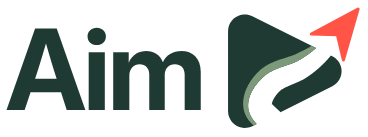
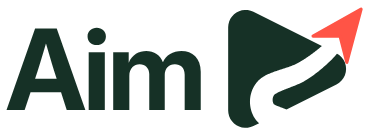
Mark: deep forest green, one road, bolder S, tighter arrow
Drops the sage verge, moves the road so the triangle keeps its corners,
and brings the arrowhead in close. Green is now #163126.

Claude-Session: https://claude.ai/code/session_01SjDZZ75Dr81gmM2iqGfBXN

diff --git a/content/core.js b/content/core.js
@@ -73,7 +73,7 @@ chrome.runtime.onMessage.addListener((msg, sender, reply) => {
 const ICON = {
   // The mark (icons/mark-small.svg, written by tools/build-mark.mjs): forest green, light in
   // YouTube's dark theme (--wp-mark); the arrowhead stays coral.
-  logo: [20,["path",{"d":"M4.86 22.24L4.85 22.22L4.74 22.09L4.63 21.95L4.51 21.81L4.4 21.66L4.29 21.51L4.17 21.34L4.06 21.16L3.95 20.97L3.84 20.77L3.74 20.55L3.64 20.32L3.56 20.06L3.49 19.79L3.43 19.51L3.4 19.23L3.38 18.99L3.38 18.78L3.39 18.58L3.41 18.37L3.43 18.17L3.46 17.98L3.5 17.79L3.55 17.6L3.59 17.42L3.65 17.25L3.71 17.07L3.77 16.91L3.83 16.74L3.9 16.58L3.98 16.42L4.06 16.26L4.14 16.11L4.22 15.96L4.3 15.82L4.39 15.67L4.48 15.53L4.57 15.39L4.67 15.26L4.76 15.13L4.86 14.99L4.96 14.87L5.06 14.74L5.17 14.61L5.27 14.49L5.38 14.37L5.48 14.25L5.59 14.14L5.7 14.03L5.81 13.92L5.93 13.81L6.04 13.7L6.16 13.6L6.27 13.49L6.39 13.39L6.52 13.29L6.67 13.17L6.83 13.04L6.99 12.93L7.16 12.83L7.32 12.73L7.48 12.64L7.64 12.55L7.8 12.47L7.96 12.39L8.12 12.32L8.28 12.25L8.44 12.18L8.59 12.12L8.75 12.06L8.9 12L9.06 11.94L9.21 11.88L9.36 11.83L9.51 11.78L9.66 11.73L9.81 11.68L9.95 11.63L10.09 11.59L10.23 11.54L10.37 11.49L10.5 11.45L10.63 11.41L10.76 11.36L10.89 11.32L11.01 11.28L11.13 11.24L11.24 11.2L11.34 11.16L11.45 11.12L11.55 11.09L11.64 11.05L11.72 11.01L11.8 10.98L11.88 10.95L11.95 10.91L12.04 10.86L12.13 10.82L12.23 10.77L12.32 10.72L12.41 10.67L12.5 10.62L12.59 10.57L12.67 10.52L12.76 10.47L12.84 10.42L12.92 10.38L13 10.33L13.08 10.28L13.17 10.23L13.24 10.18L13.32 10.13L13.4 10.08L13.47 10.03L13.55 9.98L13.63 9.93L13.7 9.88L13.78 9.83L13.85 9.77L13.93 9.72L14 9.67L14.08 9.62L14.15 9.56L14.22 9.51L14.3 9.45L14.37 9.4L14.44 9.34L14.52 9.28L14.59 9.22L14.67 9.16L14.74 9.1L14.82 9.04L14.9 8.98L14.97 8.92L15.05 8.85L15.1 8.81L4.66 3.59L4.21 3.41L3.74 3.31L3.25 3.29L2.77 3.35L2.31 3.5L1.88 3.71L1.49 4L1.15 4.35L0.88 4.75L0.68 5.2L0.56 5.66L0.52 6.15L0.52 19.78L0.56 20.26L0.68 20.73L0.88 21.17L1.15 21.57L1.49 21.93L1.88 22.21L2.31 22.43L2.77 22.58L3.25 22.64L3.74 22.62L4.21 22.52L4.66 22.34Z","style":"fill: var(--wp-mark, #1e3a32)"}],["path",{"d":"M10.01 19.66L9.98 19.63L9.86 19.51L9.74 19.4L9.63 19.29L9.52 19.19L9.41 19.09L9.31 19L9.21 18.91L9.11 18.82L9.02 18.75L8.94 18.67L8.87 18.6L8.79 18.54L8.73 18.47L8.67 18.42L8.62 18.37L8.58 18.33L8.55 18.3L8.52 18.28L8.51 18.27L8.5 18.27L8.5 18.28L8.51 18.31L8.52 18.35L8.53 18.41L8.55 18.49L8.56 18.58L8.57 18.67L8.57 18.71L8.56 18.72L8.55 18.73L8.55 18.73L8.54 18.72L8.53 18.72L8.53 18.7L8.53 18.68L8.53 18.65L8.53 18.62L8.53 18.59L8.54 18.55L8.55 18.51L8.56 18.46L8.57 18.41L8.59 18.36L8.61 18.3L8.63 18.25L8.65 18.19L8.68 18.13L8.71 18.06L8.74 18L8.78 17.93L8.81 17.86L8.85 17.79L8.89 17.73L8.94 17.66L8.98 17.59L9.03 17.52L9.08 17.45L9.13 17.38L9.18 17.31L9.23 17.24L9.28 17.18L9.34 17.11L9.39 17.04L9.45 16.98L9.51 16.92L9.56 16.86L9.61 16.8L9.64 16.77L9.67 16.74L9.7 16.71L9.74 16.67L9.79 16.63L9.85 16.59L9.92 16.54L9.99 16.49L10.06 16.44L10.15 16.39L10.24 16.34L10.33 16.29L10.43 16.24L10.54 16.18L10.65 16.13L10.76 16.08L10.88 16.02L11 15.97L11.12 15.91L11.25 15.86L11.38 15.8L11.51 15.74L11.64 15.69L11.78 15.63L11.91 15.57L12.05 15.51L12.19 15.45L12.33 15.39L12.48 15.32L12.62 15.26L12.76 15.19L12.91 15.13L13.05 15.06L13.2 14.99L13.34 14.91L13.49 14.83L13.63 14.76L13.78 14.67L13.92 14.58L14.06 14.5L14.18 14.42L14.29 14.35L14.4 14.27L14.5 14.2L14.61 14.13L14.71 14.05L14.81 13.98L14.91 13.91L15.01 13.83L15.11 13.76L15.2 13.68L15.3 13.61L15.39 13.53L15.49 13.46L15.58 13.39L15.67 13.31L15.76 13.23L15.85 13.16L15.94 13.08L16.03 13.01L16.11 12.93L16.2 12.85L16.28 12.78L16.37 12.7L16.45 12.62L16.54 12.55L16.62 12.47L16.7 12.39L16.78 12.31L16.86 12.23L16.94 12.15L17.02 12.07L17.1 11.99L17.18 11.91L17.26 11.83L17.33 11.75L17.41 11.67L17.49 11.58L17.57 11.5L17.65 11.41L17.74 11.32L17.83 11.22L17.92 11.12L18.01 11.02L18.09 10.92L18.18 10.81L18.27 10.71L18.36 10.6L18.44 10.5L18.74 10.68L19.13 11.04L19.45 11.46L19.68 11.93L19.83 12.44L19.87 12.96L19.83 13.49L19.68 14L19.45 14.47L19.13 14.89L18.74 15.25L18.29 15.52Z","style":"fill: var(--wp-mark, #1e3a32)"}],["path",{"d":"M23.48 1.36L20.62 11.1L19.48 6.31L14.56 6.19Z","fill":"#ff5446","stroke":"#ff5446","stroke-width":0.52,"stroke-linejoin":"round"}]],
+  logo: [20,["path",{"d":"M5.15 21.88L5.1 21.83L4.9 21.63L4.71 21.4L4.54 21.17L4.42 20.98L4.32 20.81L4.23 20.64L4.14 20.46L4.07 20.29L4 20.11L3.93 19.93L3.87 19.75L3.82 19.57L3.78 19.39L3.74 19.21L3.7 19.02L3.67 18.84L3.65 18.66L3.63 18.47L3.63 18.29L3.62 18.1L3.62 17.92L3.63 17.73L3.64 17.55L3.66 17.37L3.69 17.18L3.72 17L3.75 16.82L3.8 16.64L3.85 16.46L3.9 16.28L3.96 16.1L4.03 15.92L4.1 15.75L4.18 15.58L4.27 15.4L4.36 15.24L4.46 15.07L4.57 14.91L4.68 14.75L4.79 14.59L4.92 14.44L5.05 14.28L5.2 14.13L5.37 13.96L5.55 13.8L5.73 13.66L5.92 13.53L6.1 13.41L6.29 13.3L6.47 13.2L6.65 13.11L6.83 13.02L7.01 12.94L7.19 12.86L7.38 12.78L7.56 12.71L7.74 12.64L7.92 12.57L8.1 12.51L8.28 12.44L8.46 12.38L8.64 12.33L8.82 12.27L8.99 12.21L9.17 12.15L9.34 12.1L9.52 12.04L9.68 11.99L9.85 11.94L10.02 11.89L10.18 11.84L10.33 11.78L10.49 11.73L10.64 11.68L10.78 11.63L10.92 11.58L11.05 11.53L11.17 11.48L11.29 11.44L11.41 11.39L11.51 11.34L11.6 11.3L11.69 11.26L11.8 11.2L11.91 11.14L12.03 11.08L12.14 11.02L12.26 10.95L12.37 10.89L12.48 10.83L12.59 10.76L12.7 10.7L12.81 10.63L12.92 10.57L13.02 10.5L13.13 10.43L13.24 10.36L13.34 10.29L13.45 10.23L13.55 10.16L13.65 10.09L13.75 10.02L13.86 9.95L13.96 9.88L14.06 9.81L14.16 9.74L14.26 9.67L14.35 9.6L14.45 9.53L14.55 9.46L14.64 9.39L14.74 9.31L14.83 9.24L14.92 9.17L15.02 9.1L15.11 9.03L15.2 8.96L15.29 8.88L15.38 8.82L15.46 8.74L15.55 8.67L15.64 8.6L15.72 8.53L15.78 8.49L4.75 2.97L4.29 2.79L3.81 2.69L3.32 2.67L2.83 2.73L2.35 2.88L1.91 3.1L1.52 3.4L1.17 3.75L0.9 4.16L0.7 4.61L0.57 5.09L0.53 5.58L0.53 19.48L0.57 19.97L0.7 20.45L0.9 20.9L1.17 21.31L1.52 21.66L1.91 21.96L2.35 22.18L2.83 22.33L3.32 22.39L3.81 22.37L4.29 22.27L4.75 22.08Z","style":"fill: var(--wp-mark, #163126)"}],["path",{"d":"M11.01 18.95L10.97 18.94L10.79 18.87L10.61 18.8L10.44 18.73L10.27 18.67L10.11 18.61L9.95 18.55L9.8 18.5L9.65 18.44L9.51 18.39L9.37 18.34L9.25 18.29L9.13 18.24L9.02 18.2L8.92 18.16L8.83 18.12L8.75 18.09L8.69 18.06L8.64 18.03L8.61 18.02L8.59 18.01L8.58 18.02L8.6 18.04L8.63 18.08L8.68 18.14L8.72 18.2L8.72 18.22L8.71 18.21L8.7 18.2L8.69 18.19L8.67 18.18L8.66 18.16L8.65 18.15L8.63 18.13L8.62 18.11L8.61 18.09L8.6 18.06L8.58 18.04L8.57 18.01L8.56 17.99L8.55 17.96L8.54 17.93L8.54 17.9L8.53 17.87L8.52 17.85L8.52 17.82L8.52 17.78L8.51 17.76L8.51 17.73L8.51 17.7L8.51 17.67L8.51 17.64L8.51 17.61L8.51 17.58L8.52 17.55L8.52 17.52L8.52 17.5L8.53 17.47L8.54 17.45L8.54 17.42L8.55 17.4L8.56 17.37L8.57 17.35L8.58 17.33L8.59 17.3L8.59 17.29L8.58 17.29L8.57 17.29L8.58 17.28L8.6 17.26L8.63 17.23L8.68 17.19L8.74 17.15L8.81 17.1L8.89 17.05L8.98 17L9.08 16.95L9.19 16.89L9.31 16.83L9.44 16.77L9.57 16.71L9.71 16.65L9.85 16.59L10 16.53L10.15 16.47L10.31 16.4L10.46 16.34L10.63 16.28L10.8 16.21L10.97 16.15L11.14 16.08L11.31 16.01L11.48 15.94L11.66 15.87L11.83 15.8L12.01 15.73L12.19 15.65L12.36 15.58L12.54 15.5L12.72 15.41L12.89 15.33L13.07 15.24L13.25 15.15L13.42 15.06L13.59 14.96L13.76 14.86L13.9 14.77L14.04 14.69L14.17 14.6L14.3 14.51L14.43 14.42L14.56 14.33L14.69 14.24L14.82 14.15L14.94 14.06L15.06 13.97L15.19 13.88L15.31 13.79L15.43 13.7L15.55 13.61L15.66 13.52L15.78 13.42L15.9 13.33L16.01 13.24L16.12 13.15L16.23 13.05L16.34 12.96L16.45 12.87L16.56 12.78L16.67 12.68L16.77 12.59L16.88 12.5L16.98 12.41L17.08 12.31L17.18 12.22L17.28 12.13L17.38 12.04L17.48 11.95L17.57 11.86L17.67 11.76L17.76 11.67L17.85 11.58L17.95 11.49L18.04 11.4L18.12 11.32L18.21 11.22L18.31 11.12L18.41 11.02L18.51 10.92L18.6 10.81L18.7 10.71L18.79 10.6L18.88 10.49L18.97 10.39L19.05 10.28L19.11 10.21L19.5 10.57L19.82 11L20.06 11.48L20.21 11.99L20.26 12.53L20.21 13.07L20.06 13.58L19.82 14.06L19.5 14.49L19.1 14.85L18.64 15.14Z","style":"fill: var(--wp-mark, #163126)"}],["path",{"d":"M23.47 1.61L20.74 11.58L19.48 6.73L14.47 6.7Z","fill":"#ff5446","stroke":"#ff5446","stroke-width":0.53,"stroke-linejoin":"round"}]],
   chevron: [18, ["path", {"d": "M7 10l5 5 5-5", "fill": "none", "stroke": "currentColor", "stroke-width": "2", "stroke-linecap": "round", "stroke-linejoin": "round"}]],
   right: [18, ["path", {"d": "M10 7l5 5-5 5", "fill": "none", "stroke": "currentColor", "stroke-width": "2", "stroke-linecap": "round", "stroke-linejoin": "round"}]],
   pivot: [20, ["path", {"d": "M4 12a8 8 0 0 1 13.7-5.6M20 12a8 8 0 0 1-13.7 5.6M18 3v4h-4M6 21v-4h4", "fill": "none", "stroke": "currentColor", "stroke-width": "1.8", "stroke-linecap": "round", "stroke-linejoin": "round"}]],

diff --git a/content/content.css b/content/content.css
@@ -27,7 +27,7 @@
   --wp-accent-hover: #c03222;
   --wp-accent-soft: rgba(217, 59, 43, 0.08);
   --wp-on-accent: #ffffff;
-  --wp-mark: #1e3a32; /* the Aim mark: forest green, light in the dark theme */
+  --wp-mark: #163126; /* the Aim mark: forest green, light in the dark theme */
   --wp-success: #2ba640;
   --wp-card-border: rgba(0, 0, 0, 0.08);
   font-family: "Roboto", "Arial", sans-serif;

diff --git a/README.md b/README.md
@@ -92,7 +92,7 @@ YouTube helps you find something to watch. Aim helps you find what you need. Aim
 The name is Aim. It lives in one place, so it's easy to change if it ever has to:
 
 - **Name and descriptions:** `name`, `description` and `action.default_title` in `manifest.json`. The YouTube pages, popup and settings page all read the name from there.
-- **The mark:** a rounded triangle pointing forward, a road winding through it with a sage verge, and a coral arrowhead where the road leads out ("Learn forward"). Forest green (#1e3a32, or light on dark backgrounds), sage (#7c9a7a), coral (#ff5446). It's never red and never on a red tile, and the arrow points up and out, so it isn't mistaken for YouTube's play button. `tools/build-mark.mjs` draws it and writes everything made from it: `icons/mark.svg` (large), `icons/mark-small.svg` (16–32 px: a wider road, no verge), `icons/16|32|48|128.png` (dark mark, for light toolbars), `icons/light/` (light mark, for dark toolbars), `icons/wordmark.png` and `wordmark-light.png` ("Aim" then the mark, for the store and website), and `ICON.logo` in `content/core.js`, the mark on YouTube. Change the drawing there and run it (see the comment at its top), rather than editing the outputs.
+- **The mark:** a rounded triangle pointing forward, a road winding through it, and a coral arrowhead where the road leads out ("Learn forward"). Deep forest green (#163126, or light on dark backgrounds) and coral (#ff5446). It's never red and never on a red tile, and the arrow points up and out, so it isn't mistaken for YouTube's play button. `tools/build-mark.mjs` draws it and writes everything made from it: `icons/mark.svg` (large), `icons/mark-small.svg` (16–32 px: a wider road), `icons/16|32|48|128.png` (dark mark, for light toolbars), `icons/light/` (light mark, for dark toolbars), `icons/wordmark.png` and `wordmark-light.png` ("Aim" then the mark, for the store and website), and `ICON.logo` in `content/core.js`, the mark on YouTube. Change the drawing there and run it (see the comment at its top), rather than editing the outputs.
 - `PRIVACY.md` and `STORE_LISTING.md` mention the name in text.
 
 ## Stored data

diff --git a/STORE_LISTING.md b/STORE_LISTING.md
@@ -71,7 +71,7 @@ Don't show YouTube's logo prominently in screenshots or promos, and don't make t
 - [ ] **Decide Free-only or with Plus.** `config.js` now points at the Aim Plus project. For a Free-only release, empty both values first. For a release with Plus, update PRIVACY.md and the privacy answers above.
 - [ ] **Remove the `"key"` line from `manifest.json` in the uploaded copy.** It pins Aim's ID for development; the Chrome Web Store assigns its own ID. Then add `chrome-extension://<store ID>/**` to Supabase's Redirect URLs, and set `AIM_EXTENSION_ORIGINS` to the store ID.
 - [ ] Run `TESTING.md` on real YouTube (light and dark, wide and narrow windows).
-- [x] Logo chosen (October 2026): the forward triangle with a road and a coral arrowhead; forest green, sage and coral. Tagline idea: "Learn forward." See README → Rebranding.
+- [x] Logo chosen (October 2026): the forward triangle with a road and a coral arrowhead; deep forest green and coral. Tagline idea: "Learn forward." See README → Rebranding.
 - [ ] Before launch, a trademark search for "Aim" in software and education (USPTO classes 9 and 41), since other products use the word.
 - [ ] Fill in the contact email in `PRIVACY.md` and publish it.
 - [ ] Build the zip without `tests/`: `git archive --format=zip -o aim.zip HEAD ':!tests' ':!supabase' ':!docs' ':!tools'`.
